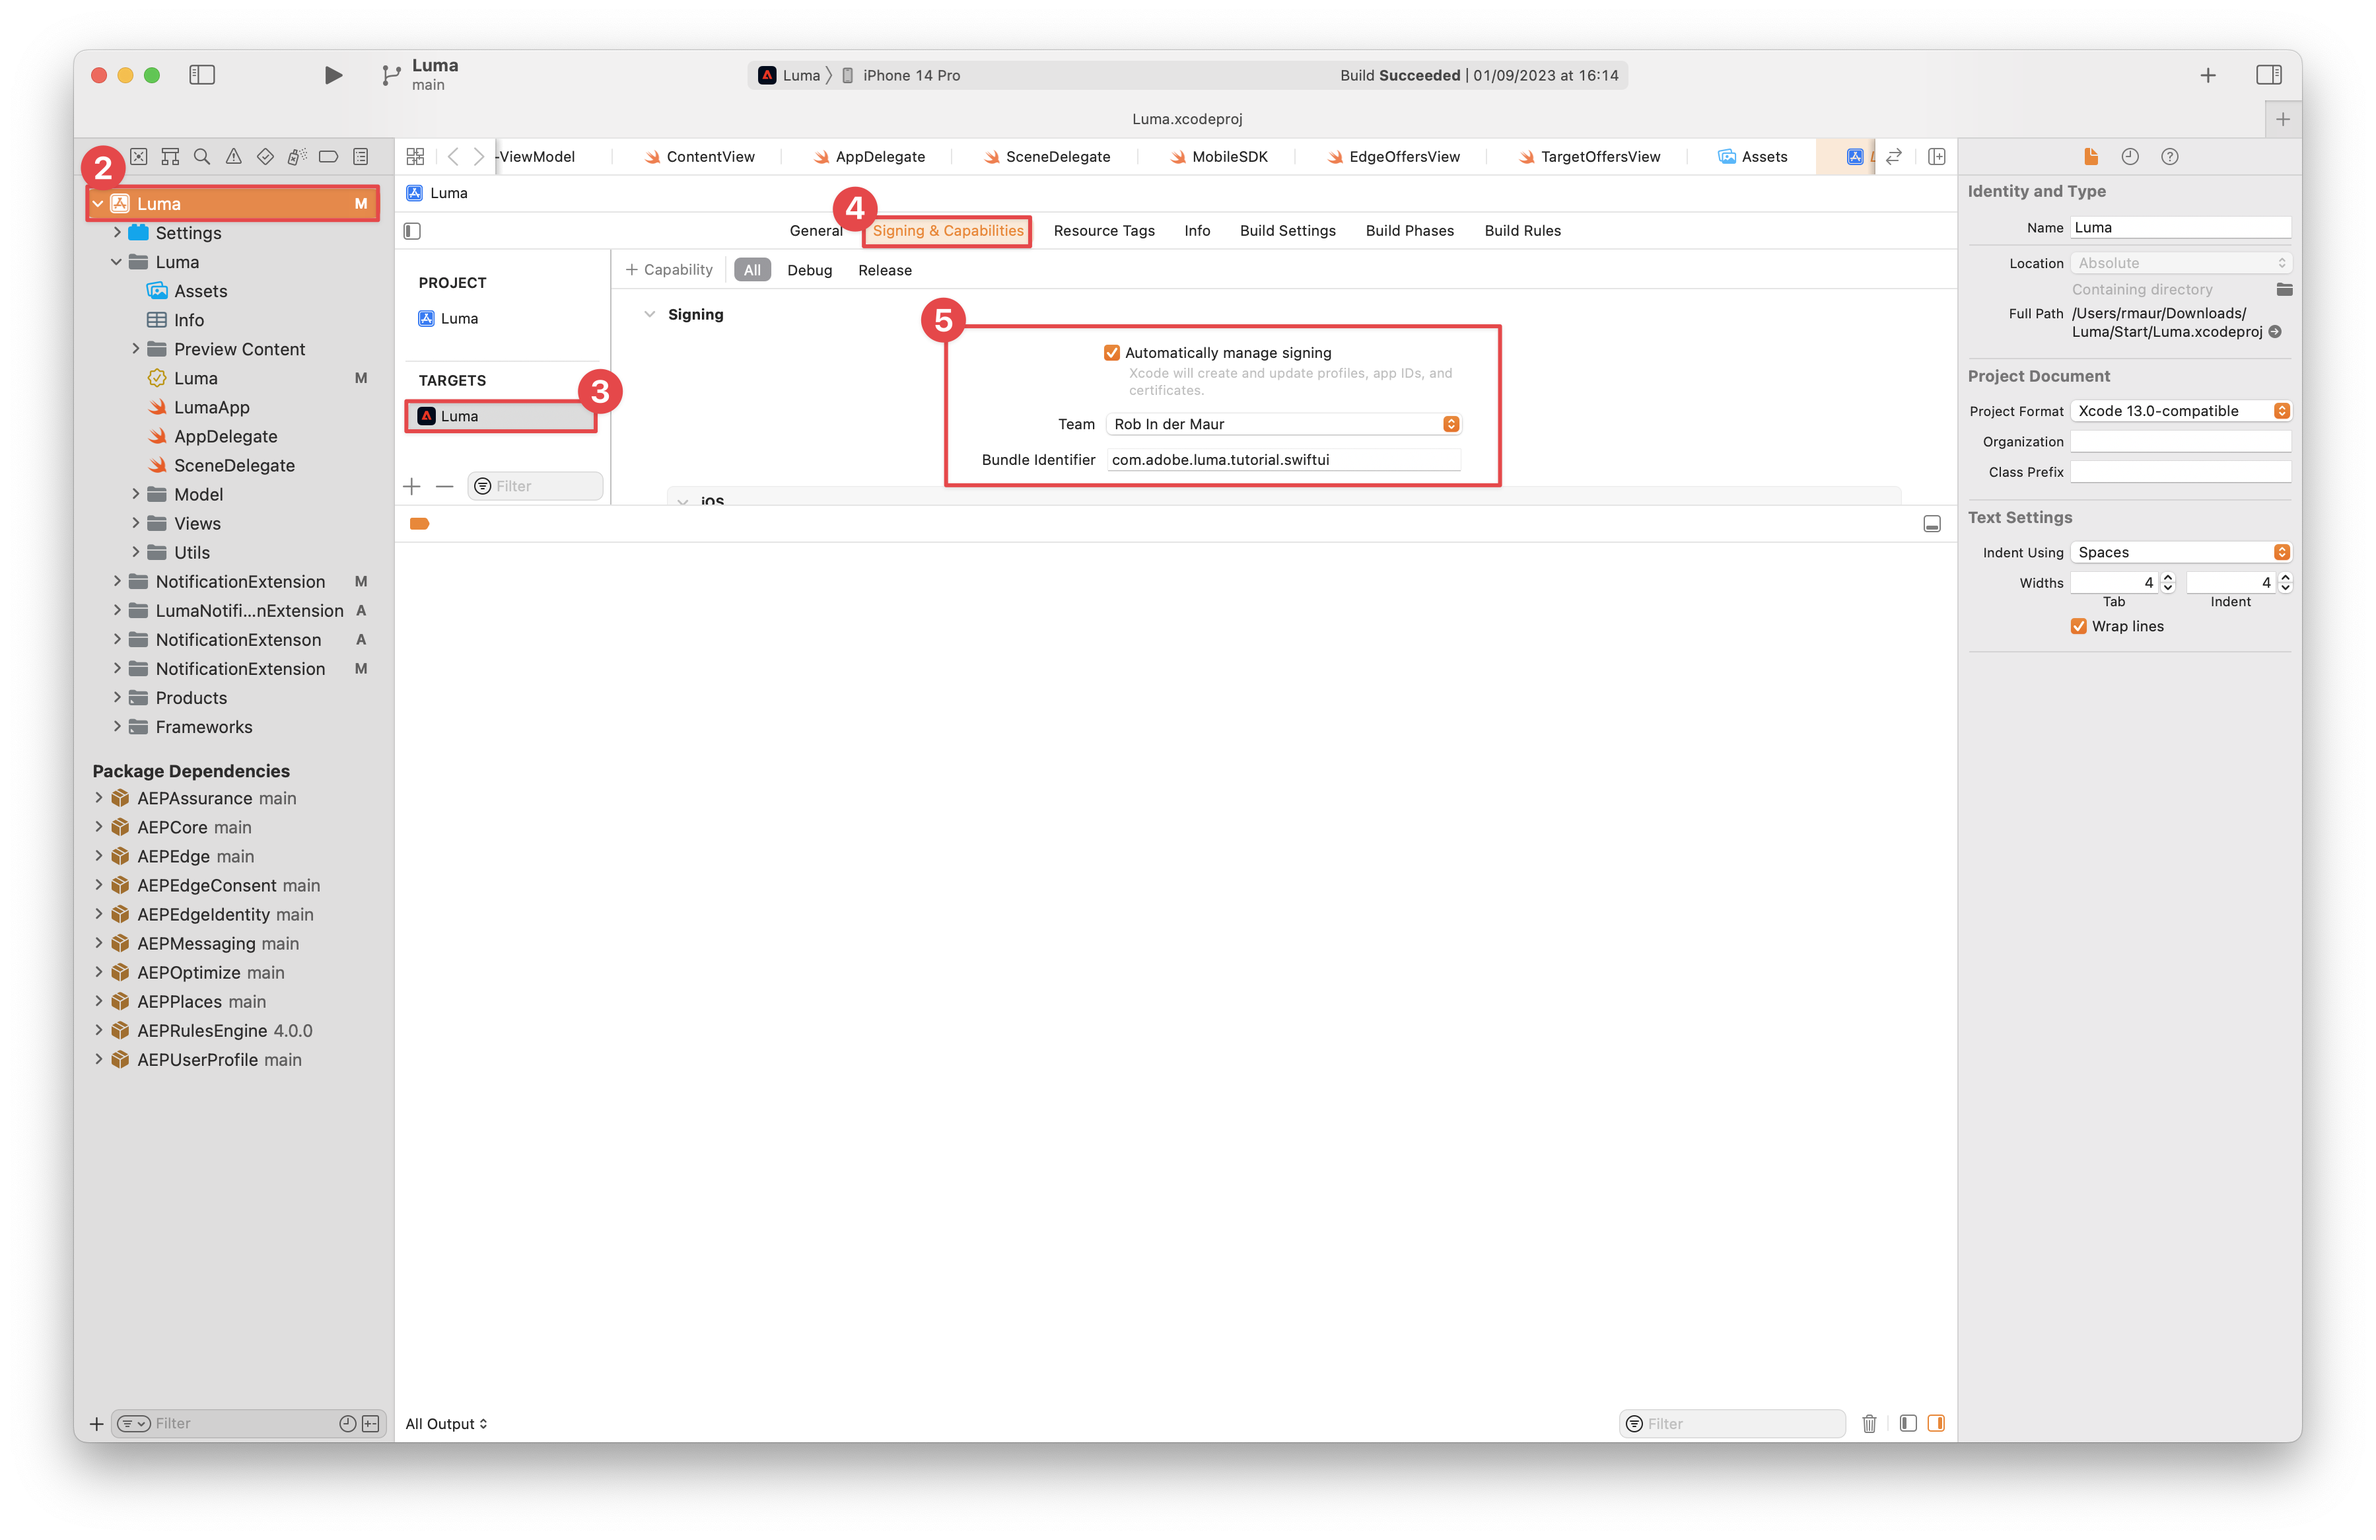
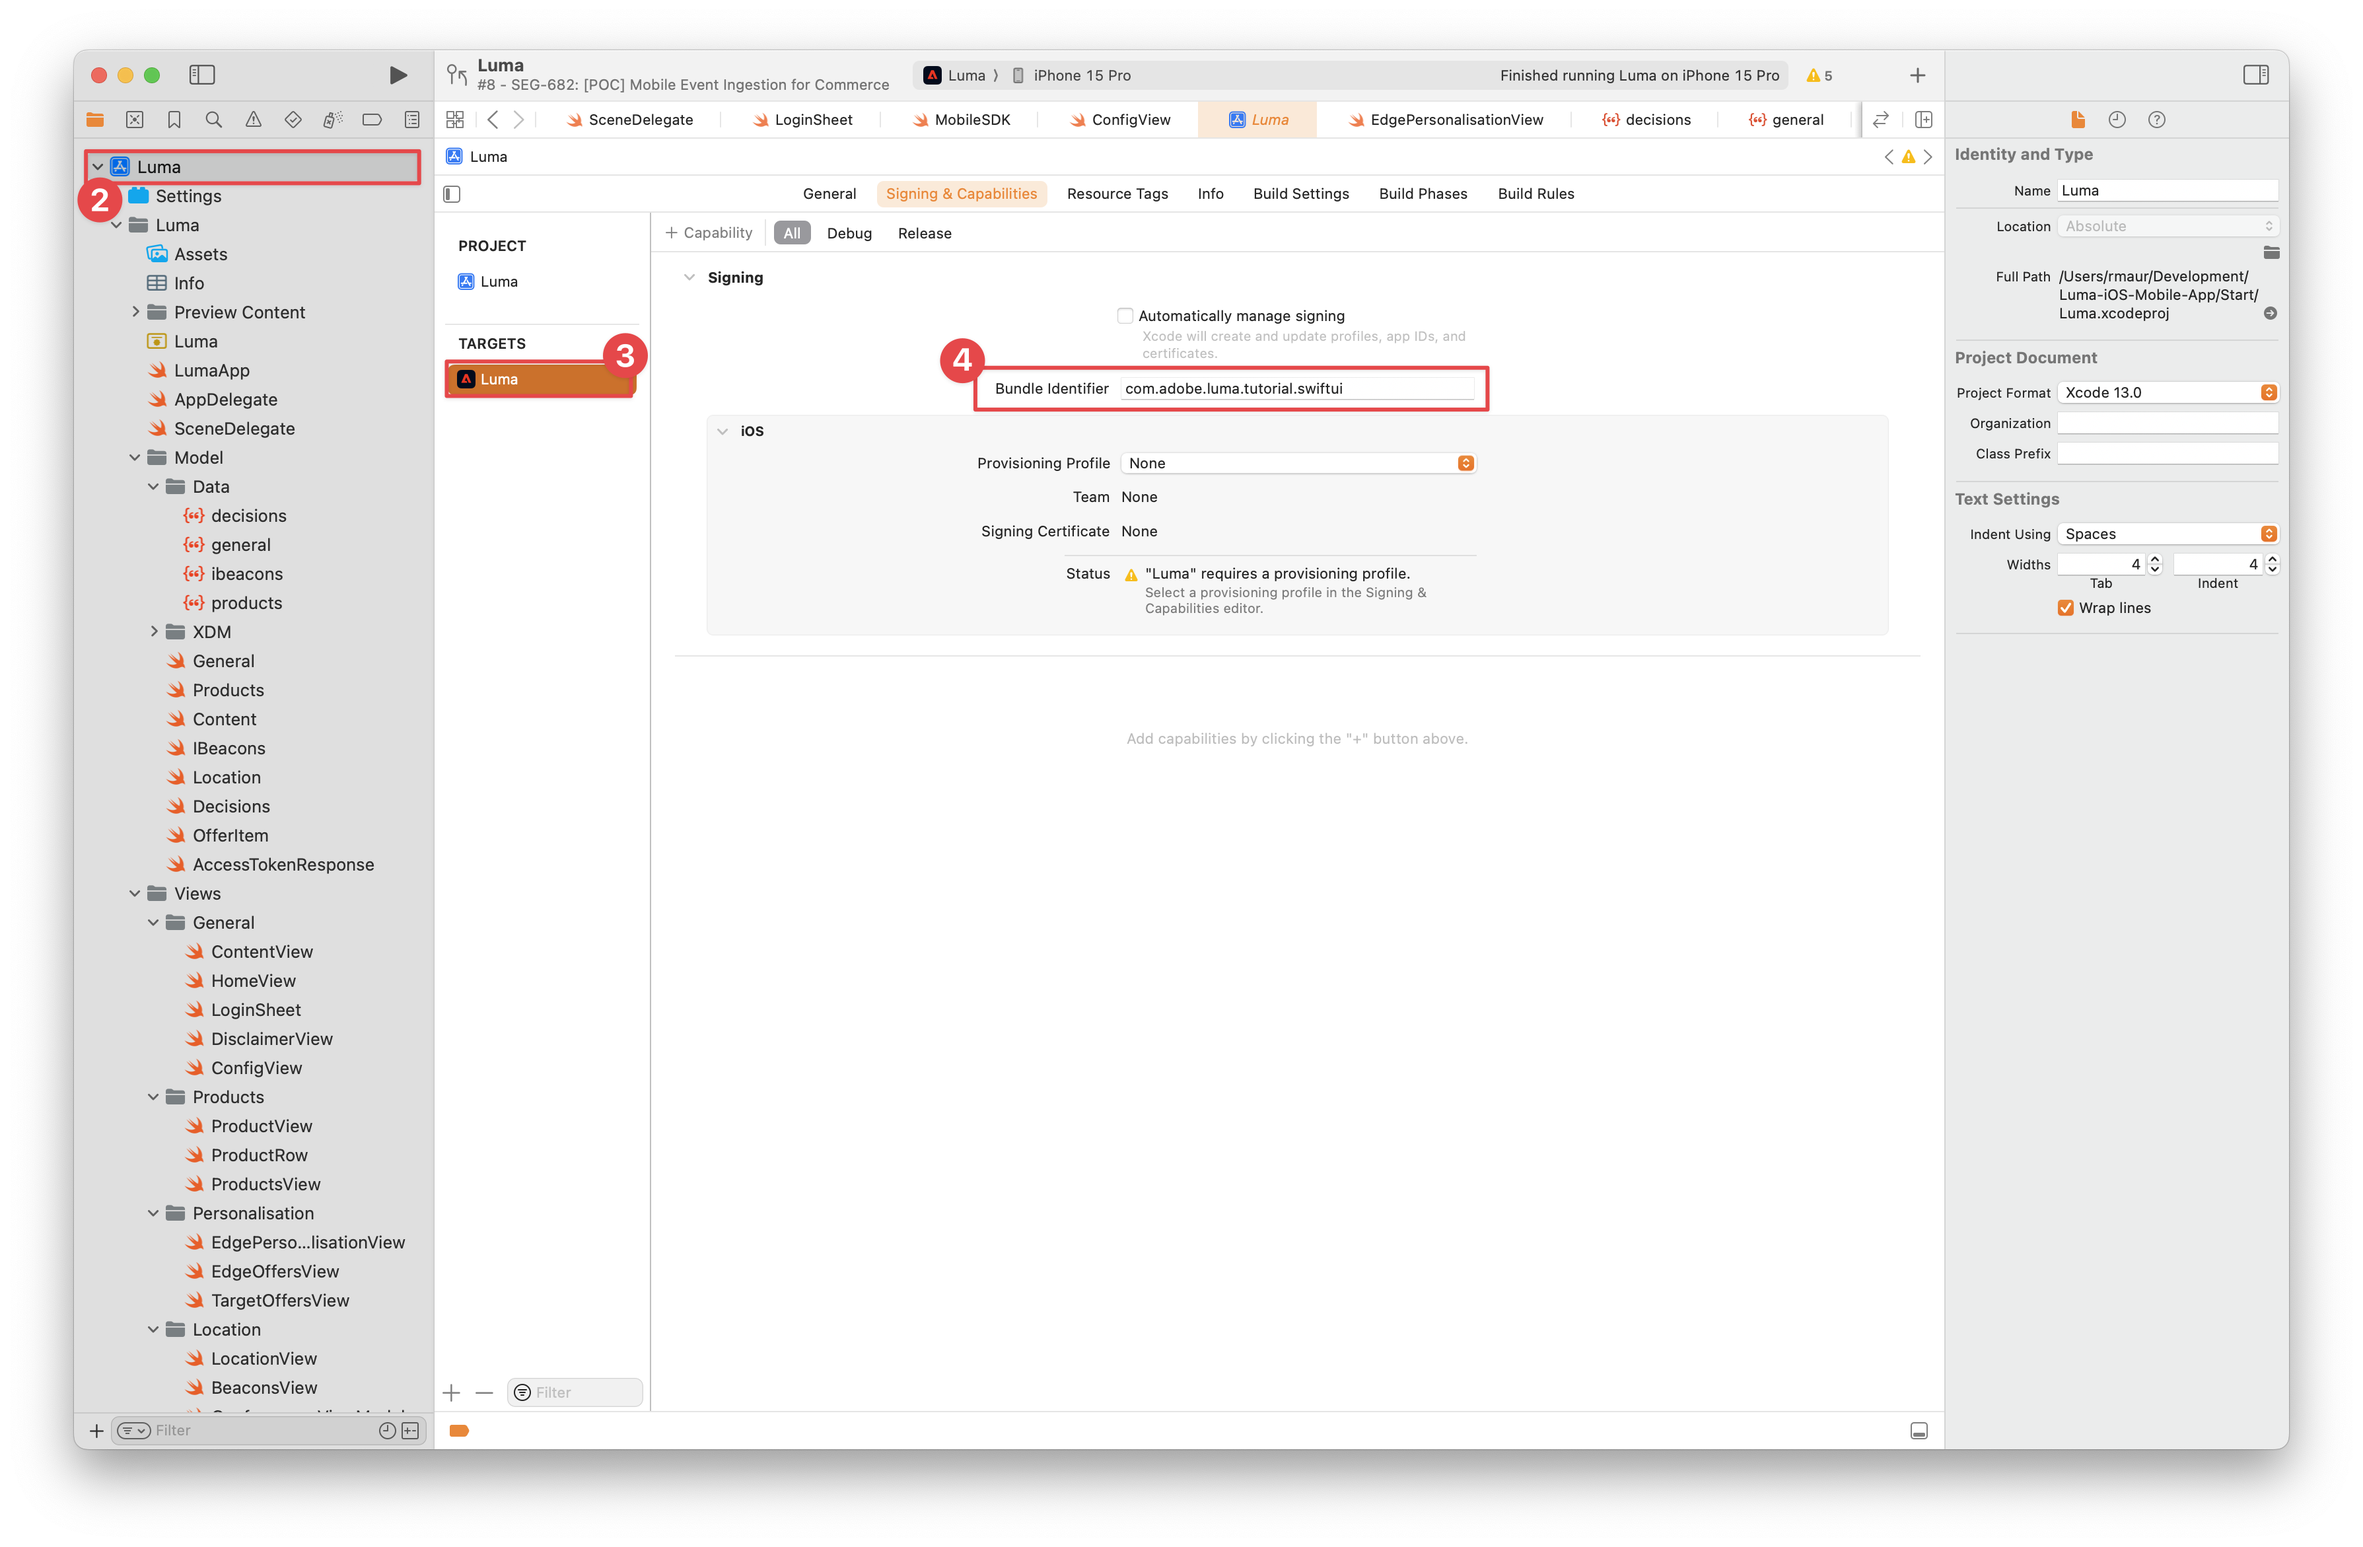
Updates on bundle identifier

diff --git a/help/tutorial-mobile-sdk/assurance.md b/help/tutorial-mobile-sdk/assurance.md
@@ -51,19 +51,17 @@ In addition to the general [SDK installation](install-sdks.md), you completed in
 
 More information can be found [here](https://developer.adobe.com/client-sdks/documentation/platform-assurance-sdk/api-reference/){target="_blank"}.
 
-<!-- not initially required
 
-## Signing
 
-Signing the application is only required for the [Create and send push notifications](journey-optimizer-push.md) and the [Create and send in-app messages](journey-optimizer-inapp.md) lessons in this tutorial. These lessons require an Apple provisioning profile which **requires a paid Apple developer account**.
+## Define bundle identifier
 
-To update the signing for the lessons that require that you sign the application:
+You need to provide a unique bundle identifier for your app.
 
 1. Open the project in Xcode.
 1. Select **[!DNL Luma]** in the Project navigator.
 1. Select the **[!DNL Luma]** target.
 1. Select the **Signing & Capabilities** tab.
-1. Configure **[!UICONTROL Automatic manage signing]**, **[!UICONTROL Team]**, and **[!UICONTROL Bundle Identifier]**, or use your specific Apple development provisioning details. 
+1. Define a **[!UICONTROL Bundle Identifier]**. 
  
    >[!IMPORTANT]
    >
@@ -72,7 +70,6 @@ To update the signing for the lessons that require that you sign the application
 
     ![Xcode signing capabilities](assets/xcode-signing-capabilities.png){zoomable="yes"}
 
--->
 
 ## Set up a base URL
 
@@ -87,7 +84,7 @@ To update the signing for the lessons that require that you sign the application
 
    >[!IMPORTANT]
    >
-   >Ensure you use a _unique_ bundle identifier and replace the `com.adobe.luma.tutorial.swiftui` bundle identifier, as each bundle identifier must be unique. Typically, you use a reverse-DNS format for bundle ID strings, like `com.organization.brand.uniqueidentifier`.<br/>Similarly, use a unique URL scheme, and replace the already provided `lumatutorialswiftui` with your unique URL scheme.
+   >Ensure you use a _unique_ bundle identifier and replace the `com.adobe.luma.tutorial.swiftui` bundle identifier, as each bundle identifier must be unique. Typically, you use a reverse-DNS format for bundle ID strings, like `com.organization.brand.uniqueidentifier`. You can use the same bundle identifier that you have used at [Define bundle identifier](#define-bundle-identifier).<br/>Similarly, use a unique URL scheme, and replace the already provided `lumatutorialswiftui` with your unique URL scheme.
 
 To learn more about URL Schemes in iOS, review [Apple's documentation](https://developer.apple.com/documentation/xcode/defining-a-custom-url-scheme-for-your-app){target="_blank"}.
 
